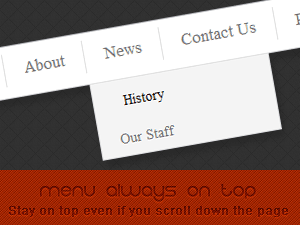
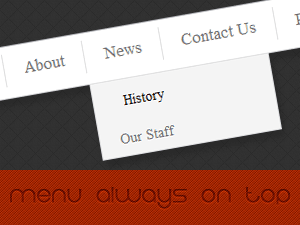
Update image Thumbnail

Changed region(s): [[0.0, 0.7467, 1.0, 1.0]]

diff --git a/style.css b/style.css
@@ -84,3 +84,10 @@ ul.menu-always-on-top li ul li a:hover {
 	-ms-transition: padding 200ms;
 	transition: padding 200ms;
 }
+
+.menu-always-on-top .submit{
+    box-shadow: 0px 0px 0px !important;
+}
+.submit{
+	border: 1px solid #ff0000;
+}

diff --git a/section.php b/section.php
@@ -99,6 +99,9 @@ class TmalwaysOnTop extends PageLinesSection {
 			}
 			#<?=$this->id?> .searchform input.submit {
 			    top: 8px;
+			    box-shadow:0px 0px 0px transparent;
+			    border:0px;
+
 			}
 		</style>
 		<script type="text/javascript">
@@ -108,12 +111,12 @@ class TmalwaysOnTop extends PageLinesSection {
 				menu.addClass('default')
 				$(window).scroll(function(){
 					if($(this).scrollTop() > pos.top+menu.height() && menu.hasClass('default')){
-						menu.fadeOut('fast', function(){
-							$(this).removeClass('default').addClass('fixed').fadeIn('fast');
+						menu.fadeOut('slow', function(){
+							$(this).removeClass('default').addClass('fixed').fadeIn('slow');
 						});
 					} else if($(this).scrollTop() <= pos.top && menu.hasClass('fixed')){
-						menu.fadeOut('fast', function(){
-							$(this).removeClass('fixed').addClass('default').fadeIn('fast');
+						menu.fadeOut('slow', function(){
+							$(this).removeClass('fixed').addClass('default').fadeIn('slow');
 						});
 					}
 				});
